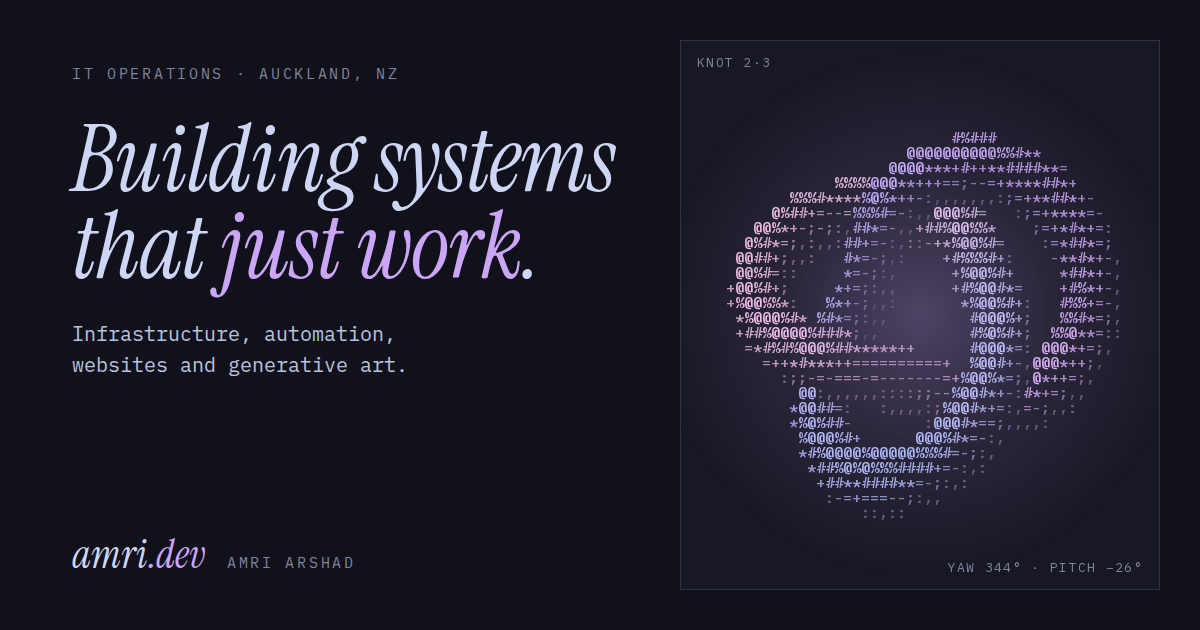
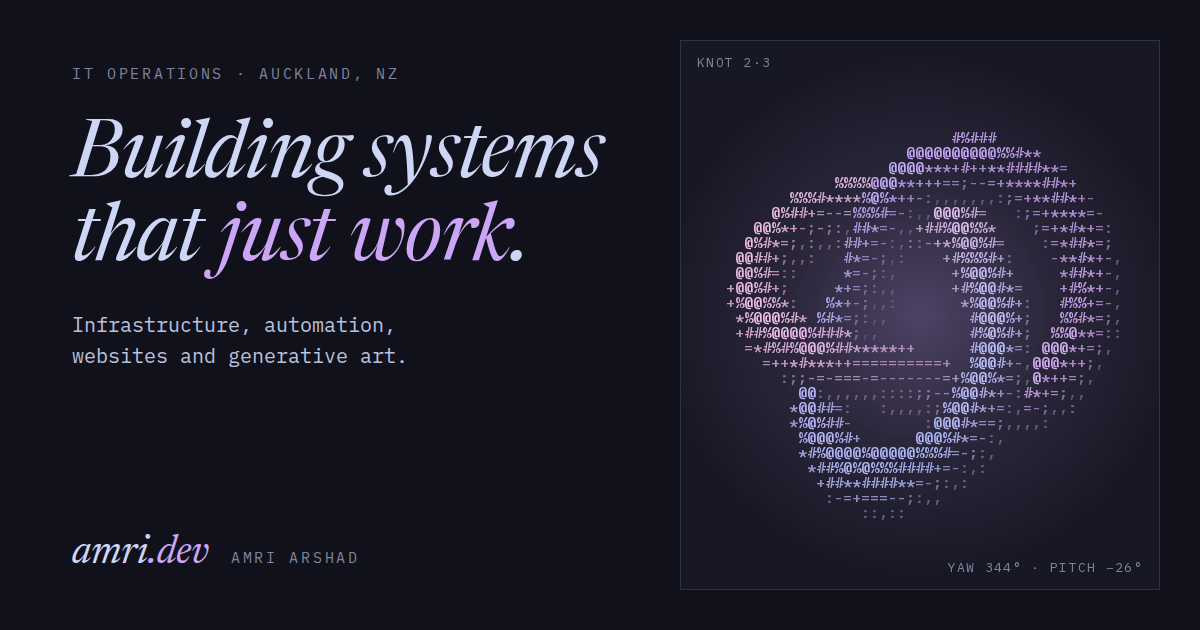
feat: switch headings to Newsreader italic for readability
Instrument Serif's condensed, hairline italic was hard to read at the
22-34px sizes used for post titles, list rows and section headings.
Newsreader keeps an editorial italic but is drawn for screens, and its
optical sizes make small headings sturdier.

Newsreader is wider and has taller ascenders and descenders, so the hero,
page titles and section headings get smaller sizes and looser line
heights (the hero's "j" was clipping the line above at 0.95). The link
preview card is re-rendered in the new face, and the design doc records
the change and why.

Changed region(s): [[0.0617, 0.181, 0.5242, 0.4825], [0.0617, 0.4825, 0.3392, 0.6032], [0.0617, 0.8444, 0.3083, 0.9048]]

diff --git a/scripts/og-card.html b/scripts/og-card.html
@@ -3,7 +3,7 @@
 <html>
 <head>
 <meta charset="utf-8">
-<link rel="stylesheet" href="https://fonts.googleapis.com/css2?family=IBM+Plex+Mono:wght@400;500&family=Instrument+Serif:ital@1&display=block">
+<link rel="stylesheet" href="https://fonts.googleapis.com/css2?family=IBM+Plex+Mono:wght@400;500&family=Newsreader:ital,opsz,wght@1,6..72,400..500&display=block">
 <style>
   :root {
     --bg: #11111b; --panel: #181825; --line: #313244; --muted: #7f849c; --fg-soft: #bac2de; --fg: #cdd6f4;
@@ -15,11 +15,11 @@
   .card { position: absolute; inset: 0; display: grid; grid-template-columns: 1fr 520px; }
   .copy { padding: 64px 0 56px 72px; display: flex; flex-direction: column; }
   .label { font-size: 15px; letter-spacing: 0.18em; text-transform: uppercase; color: var(--muted); }
-  h1 { margin: 34px 0 26px; font-family: "Instrument Serif", serif; font-style: italic; font-weight: 400; font-size: 92px; line-height: 0.95; letter-spacing: -0.01em; }
+  h1 { margin: 34px 0 26px; font-family: "Newsreader", serif; font-style: italic; font-weight: 400; font-size: 80px; line-height: 1.04; letter-spacing: -0.015em; }
   h1 span { color: var(--accent); }
   .lede { font-size: 20px; line-height: 1.55; color: var(--fg-soft); max-width: 30ch; }
   .foot { margin-top: auto; display: flex; align-items: baseline; gap: 22px; }
-  .wordmark { font-family: "Instrument Serif", serif; font-style: italic; font-size: 40px; line-height: 1; }
+  .wordmark { font-family: "Newsreader", serif; font-style: italic; font-size: 40px; line-height: 1; }
   .wordmark span { color: var(--accent); }
   .stage { position: relative; margin: 40px 40px 40px 0; border: 1px solid var(--line); background: var(--panel); }
   .stage canvas { position: absolute; inset: 0; width: 100%; height: 100%; }
@@ -40,6 +40,7 @@
   <script type="module">
     import { SHAPES, buildGeometry, createRenderer } from "../src/scripts/knot.js";
     await document.fonts.load(`500 16px "IBM Plex Mono"`);
+    await document.fonts.load(`italic 80px "Newsreader"`);
     await document.fonts.ready;
     const r = createRenderer(document.getElementById("c"), { minFs: 15, maxFs: 15, fsDiv: 30 });
     r.setGeometry(buildGeometry(SHAPES[0], { nu: 1400, nv: 48 }));

diff --git a/src/styles/site.css b/src/styles/site.css
@@ -14,7 +14,7 @@
   --on-accent: #11111b;
   --glow: 203, 166, 247;
   --glow-alpha: 0.2;
-  --display: "Instrument Serif", "Times New Roman", serif;
+  --display: "Newsreader", "Iowan Old Style", Georgia, serif;
   --mono: "IBM Plex Mono", "Fira Code", ui-monospace, Menlo, Consolas, monospace;
   color-scheme: dark;
 }
@@ -217,9 +217,9 @@ img { max-width: 100%; }
   font-family: var(--display);
   font-style: italic;
   font-weight: 400;
-  font-size: clamp(46px, 7.4vw, 86px);
-  line-height: 0.95;
-  letter-spacing: -0.01em;
+  font-size: clamp(42px, 6.2vw, 74px);
+  line-height: 1.04;
+  letter-spacing: -0.015em;
   text-wrap: balance;
 }
 .lede { margin: 0 0 30px; max-width: 46ch; color: var(--fg-soft); font-size: 15px; }
@@ -292,8 +292,8 @@ img { max-width: 100%; }
   font-family: var(--display);
   font-style: italic;
   font-weight: 400;
-  font-size: clamp(32px, 4.4vw, 48px);
-  line-height: 1;
+  font-size: clamp(30px, 4vw, 44px);
+  line-height: 1.08;
   text-wrap: balance;
 }
 .section-head h2 { margin: 0; }
@@ -526,9 +526,9 @@ a.row:hover .row-arrow { color: var(--accent); transform: translateX(4px); }
   font-family: var(--display);
   font-style: italic;
   font-weight: 400;
-  font-size: clamp(44px, 7vw, 80px);
-  line-height: 0.98;
-  letter-spacing: -0.01em;
+  font-size: clamp(40px, 6vw, 68px);
+  line-height: 1.06;
+  letter-spacing: -0.015em;
   text-wrap: balance;
   max-width: 18ch;
 }

diff --git a/docs/DESIGN.md b/docs/DESIGN.md
@@ -13,8 +13,13 @@ type and hairline borders.
 
 Principles carried over from Glyphbloom:
 
-- **Two typefaces, strict roles.** Instrument Serif *italic* for display
+- **Two typefaces, strict roles.** Newsreader *italic* for display
   (wordmark, headings, card titles). IBM Plex Mono for everything else.
+  Glyphbloom uses Instrument Serif; amri.dev swapped to Newsreader because
+  Instrument's condensed, hairline italic got hard to read at the 22–34px
+  sizes used for post titles and section headings. Newsreader keeps the
+  editorial italic but is drawn for screens, and its optical sizes make small
+  headings sturdier.
 - **Hairlines, not boxes.** 1px borders in `--line`, square corners, panels
   only one step lighter than the page.
 - **Small uppercase labels.** Nav, buttons, eyebrows and metadata are 11–12px
@@ -52,9 +57,10 @@ Text `#4c4f69`, Mauve `#8839ef`) so no component needs to know which theme is on
 
 | Role        | Face                    | Size                       |
 |-------------|-------------------------|----------------------------|
-| Hero h1     | Instrument Serif italic | `clamp(46px, 7.4vw, 86px)`, lh 0.95 |
-| Section h2  | Instrument Serif italic | `clamp(32px, 4.4vw, 48px)`, lh 1 |
-| Card h3     | Instrument Serif italic | 26–28px                    |
+| Hero h1     | Newsreader italic       | `clamp(42px, 6.2vw, 74px)`, lh 1.04 |
+| Page h1     | Newsreader italic       | `clamp(40px, 6vw, 68px)`, lh 1.06 |
+| Section h2  | Newsreader italic       | `clamp(30px, 4vw, 44px)`, lh 1.08 |
+| Card h3     | Newsreader italic       | 26–28px                    |
 | Body        | IBM Plex Mono 400       | 14px / 1.6 (prose 15px / 1.75) |
 | Labels      | IBM Plex Mono 500       | 11–12px uppercase, 0.1–0.16em tracking |
 
@@ -87,7 +93,7 @@ Pink along the tube. It's a nod to Holocryptic (maths as art) and to `donut.c`.
 
 ## Components
 
-- **Header** — wordmark `amri.dev` (Instrument italic, `.dev` in Mauve), uppercase
+- **Header** — wordmark `amri.dev` (Newsreader italic, `.dev` in Mauve), uppercase
   nav, theme toggle. Current page gets the Mauve underline.
 - **Footer** — hairline top border; the 88×31 button wall (kept from the old site,
   it's part of the personality); GitHub · LinkedIn · email.
